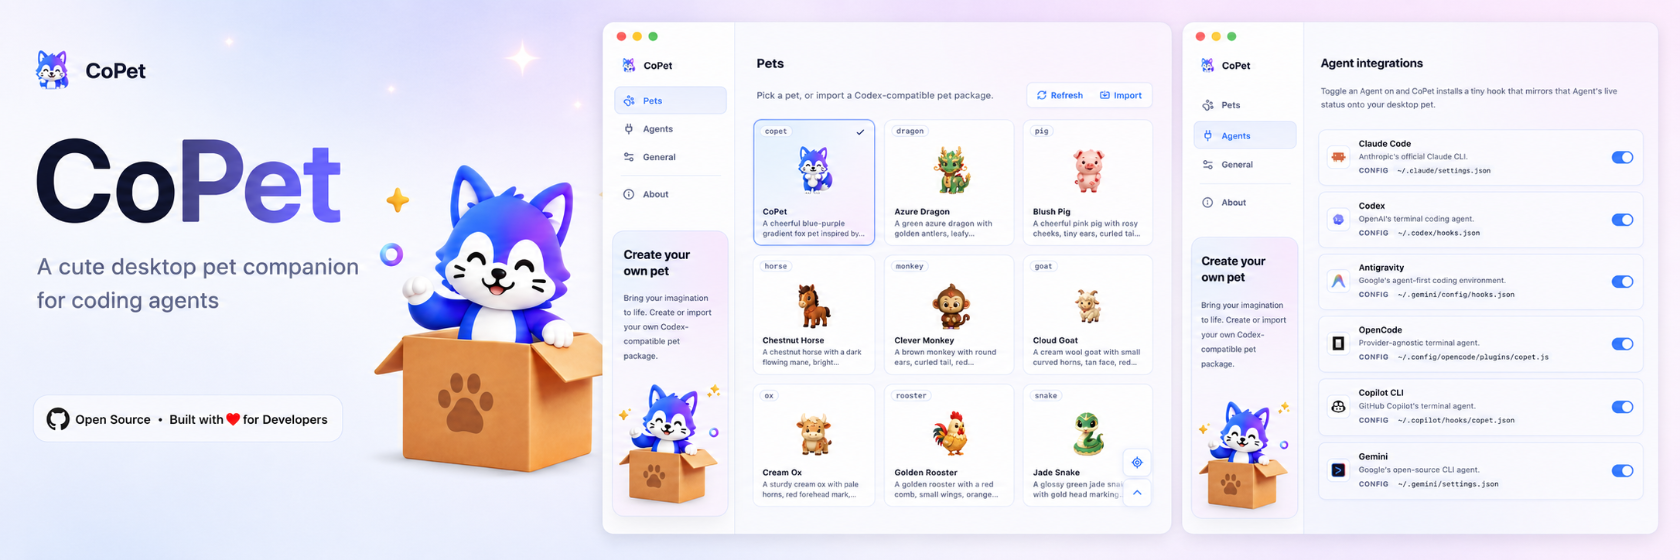
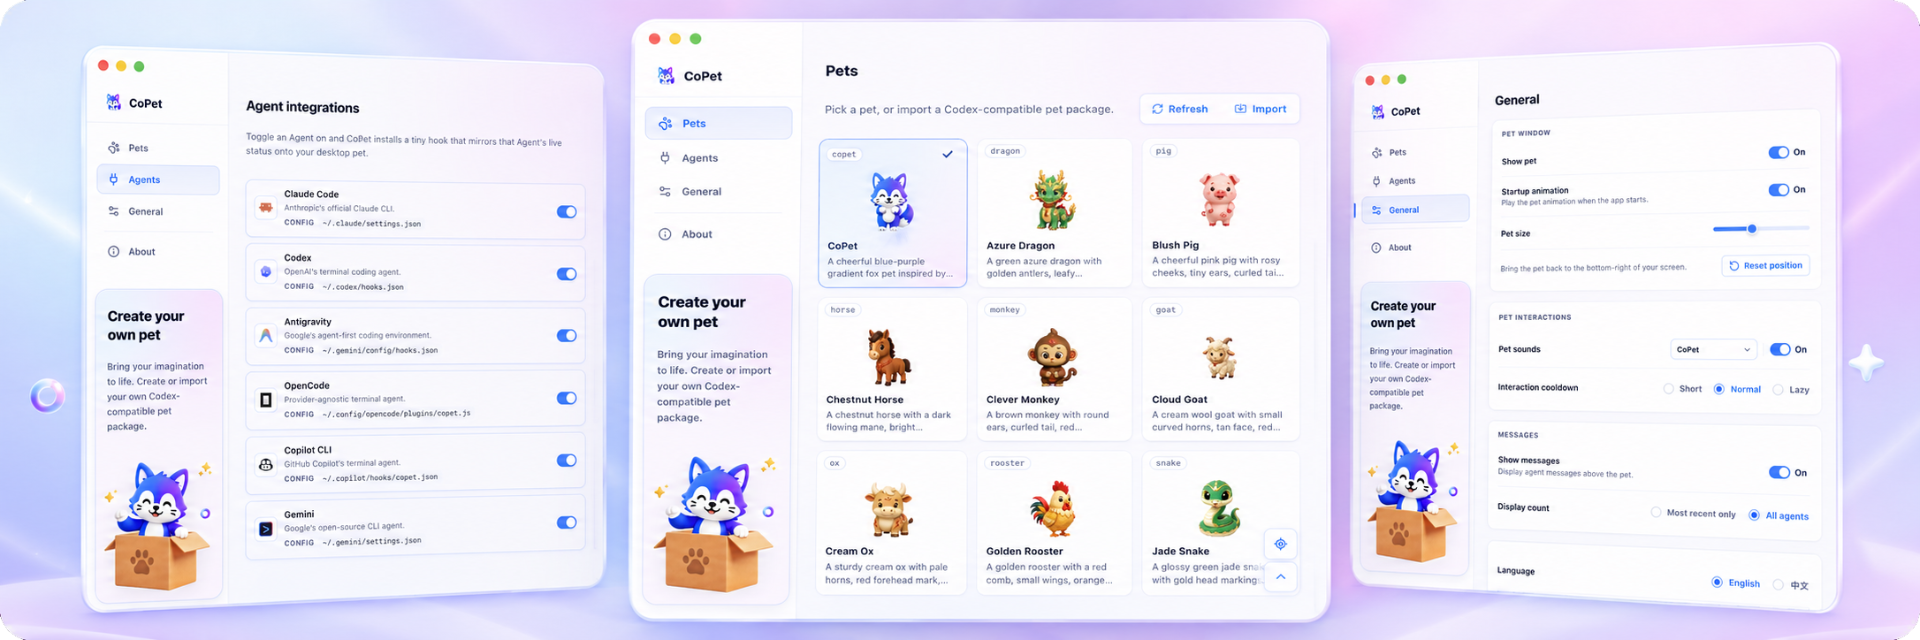
chore(release): prepare 0.1.1 package

diff --git a/src/components/SettingsPreferencesSection.tsx b/src/components/SettingsPreferencesSection.tsx
@@ -183,6 +183,9 @@ export function SettingsPreferencesSection({
               <span className="settings-preferences-row-title">
                 {t("enableStartupAnimation")}
               </span>
+              <p className="settings-preferences-row-description">
+                {t("enableStartupAnimationDescription")}
+              </p>
             </div>
             <div className="settings-preferences-row-control">
               <div

diff --git a/src/lib/i18n.ts b/src/lib/i18n.ts
@@ -58,6 +58,8 @@ const messages = {
     petImportSkipped: "Skipped invalid packages: {count}",
     enableClickSounds: "Pet sounds",
     enableStartupAnimation: "Startup animation",
+    enableStartupAnimationDescription:
+      "Play the pet animation when the app starts.",
     interactionCooldown: "Interaction cooldown",
     interactionCooldownShort: "Short",
     interactionCooldownNormal: "Normal",
@@ -145,6 +147,7 @@ const messages = {
     petImportSkipped: "已跳过无效宠物包：{count}",
     enableClickSounds: "宠物音效",
     enableStartupAnimation: "启动动画",
+    enableStartupAnimationDescription: "应用启动时播放宠物动画",
     interactionCooldown: "互动冷却",
     interactionCooldownShort: "短",
     interactionCooldownNormal: "标准",

diff --git a/src/styles.css b/src/styles.css
@@ -159,8 +159,9 @@ select {
 
 .pet-agent-text {
   min-width: 0;
-  overflow-wrap: anywhere;
   display: -webkit-box;
+  overflow-wrap: anywhere;
+  line-height: 1.4;
   -webkit-box-orient: vertical;
   -webkit-line-clamp: 2;
   line-clamp: 2;

diff --git a/README.md b/README.md
@@ -1,8 +1,13 @@
+<div align="center">
+  <img src="./public/pet.png" alt="CoPet logo" width="120" />
+  <h1>CoPet</h1>
+  <p><strong>A living desktop companion for every AI Agent CLI session.</strong></p>
+  <p>Driven by Codex pet packages, CoPet reacts in real time to Claude Code, Codex, Antigravity, OpenCode, Copilot CLI, and Gemini, turning prompts, tool use, waiting, and completions into lively desktop feedback.</p>
+</div>
+
 ![CoPet](./public/banner.png)
 
 [简体中文](./README.zh.md)
-
-A desktop companion driven by Codex pet packages that reacts in real time to your AI Agent CLI sessions — Claude Code, Codex, Antigravity, OpenCode, Copilot CLI, and Gemini.
 
 Built with Tauri, Rust, and React. Lightweight, local-first, no cloud.
 
@@ -16,6 +21,29 @@ Built with Tauri, Rust, and React. Lightweight, local-first, no cloud.
 - Settings and tray controls for pets, Agent hooks, sounds, language, visibility, and window position.
 - Local-first data model in `~/.copet`, with safe hook backups, atomic writes, and no telemetry.
 - Bilingual UI (English / 简体中文).
+
+## Customize your pet
+
+CoPet is not limited to built-in pets. The [CoPet Skill series](./skills/README.md) helps you turn a character idea, team mascot, or personal avatar into your own desktop companion:
+
+- [`copet-gen`](./skills/copet-gen/SKILL.md) generates and installs custom CoPet pet packages with `pet.json` and `spritesheet.webp`, so your own character can react to Agent activity.
+- [`copet-sound`](./skills/copet-sound/SKILL.md) creates matching 11-clip MP3 sound packs for clicks, gestures, waiting, success, and error states.
+
+Install CoPet Skills for Codex with either method.
+
+From a terminal:
+
+```bash
+npx skills add ChanceYu/CoPet --skill '*' -a codex -g -y
+```
+
+Inside Codex:
+
+```text
+$skill-installer install all CoPet skills from https://github.com/ChanceYu/CoPet/tree/main/skills
+```
+
+Restart Codex if the newly installed Skills do not appear.
 
 ## Supported agents
 

diff --git a/README.zh.md b/README.zh.md
@@ -1,8 +1,13 @@
+<div align="center">
+  <img src="./public/pet.png" alt="CoPet logo" width="120" />
+  <h1>CoPet</h1>
+  <p><strong>由 Codex pet 包驱动的 AI Agent 桌面伙伴。</strong></p>
+  <p>实时响应 Claude Code、Codex、Antigravity、OpenCode、Copilot CLI、Gemini 会话，把提示、工具调用、等待和完成状态变成陪你写代码的灵动宠物反馈。</p>
+</div>
+
 ![CoPet](./public/banner.zh.png)
 
 [English](./README.md)
-
-由 Codex pet 包驱动的桌面伙伴，实时响应你的 AI Agent CLI 会话 —— Claude Code、Codex、Antigravity、OpenCode、Copilot CLI、Gemini。
 
 基于 Tauri、Rust、React 构建。轻量、本地优先、无云依赖。
 
@@ -16,6 +21,29 @@
 - 设置页与托盘覆盖宠物、Agent hooks、音效、语言、可见性和窗口位置。
 - 本地优先数据模型，数据位于 `~/.copet`，hook 写入有备份、原子写且无遥测。
 - 双语界面（English / 简体中文）。
+
+## 自定义你的宠物
+
+CoPet 不止内置宠物。[CoPet Skill 系列](./skills/README.md) 可以把角色设定、团队 mascot 或个人头像变成你自己的桌面伙伴：
+
+- [`copet-gen`](./skills/copet-gen/SKILL.md) 生成并安装自定义 CoPet 宠物包，包含 `pet.json` 与 `spritesheet.webp`，让你的角色响应 Agent 活动。
+- [`copet-sound`](./skills/copet-sound/SKILL.md) 生成配套 11 段 MP3 音效包，覆盖点击、互动、等待、成功和错误等状态。
+
+安装 CoPet Skills 到 Codex，可任选一种方式。
+
+在终端中运行：
+
+```bash
+npx skills add ChanceYu/CoPet --skill '*' -a codex -g -y
+```
+
+在 Codex 会话中输入：
+
+```text
+$skill-installer install all CoPet skills from https://github.com/ChanceYu/CoPet/tree/main/skills
+```
+
+如果新安装的 Skill 没有出现，请重启 Codex。
 
 ## 支持的 Agent
 